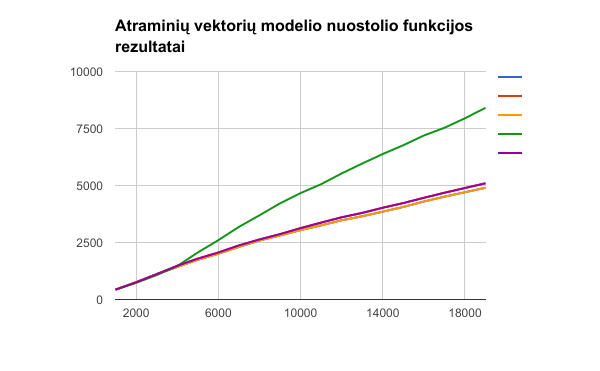
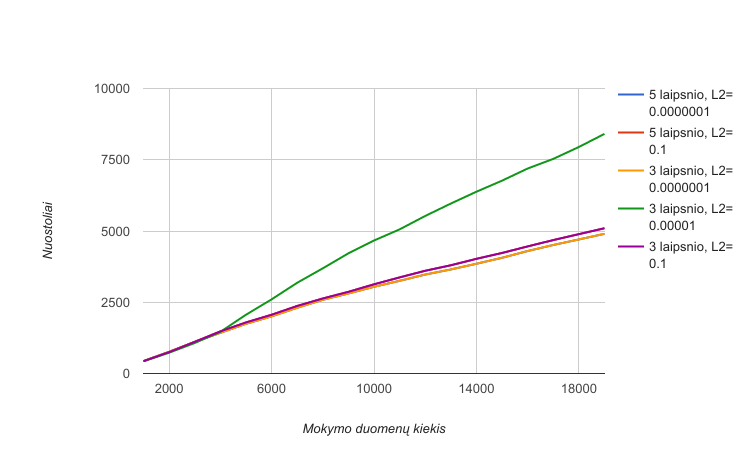
up to 12p

diff --git a/docs/apzvalga/comparison.tex b/docs/apzvalga/comparison.tex
@@ -1,19 +1,19 @@
 Straipsnyje lyginami įvairūs metodai skirti svetainių klasifikavimui į kenksmingas ir nekenksmingas. Formuluojama problema yra svetainių klasifikavimas į dvi grupes, naudojant metodus \cite{comp}
 \begin{enumerate}
- \item K-Artimiausų kaimynų (K-Nearest neighbours)
- \item Atraminių vektorių klasifikatorius (Support Vector Machine)
- \item Paprastasis Bayes klasifikatorius (Naive Bayes)
- \item K-Vidurkių (K-Means)
- \item Affinity propagation metodas
+ \item K-Artimiausų kaimynų (K-Nearest neighbours);
+ \item Atraminių vektorių klasifikatorius (Support Vector Machine);
+ \item Paprastasis Bayes klasifikatorius (Naive Bayes);
+ \item K-Vidurkių (K-Means);
+ \item Affinity propagation metodas.
 \end{enumerate}
 
-Staripsnyje naudojami ir prižiūrimi ir neprižiūrimi metodai. Jų rezultatas yra lyginamas siekiant aptikti geriausiai tinkantį parinktai problemai spręsti \cite{comp}.
+Staripsnyje naudojami ir metodai mokomi su mokytoju ir be. Jų rezultatas yra lyginamas siekiant aptikti geriausiai tinkantį parinktai problemai spręsti \cite{comp}.
 
 K-Artimiausų kaimynų (K-Nearest neighbours) metodas yra paremtas trimis elementais \cite{Wu2008}:
 \begin{enumerate}
-    \item Pavyzdinis duomenų rinkinys (Mokymo duomenų rinkinys)
-    \item Elementų atstumo matas
-    \item Analizuojamų kaimynų kiekis $k$
+    \item Pavyzdinis duomenų rinkinys (Mokymo duomenų rinkinys);
+    \item Elementų atstumo matas;
+    \item Analizuojamų kaimynų kiekis $k$.
 \end{enumerate}
 Elemento klasifikacija vyksta balsavimo principu - išrenkama $k$ elementų, kurie yra artimiausi pagal parinktą artumo metriką, dominuojanti klasė išrinktame rinkinyje priskiriama klasifikuojamam elementui.
 
@@ -100,7 +100,7 @@ Duomenų rinkinys surinktas iš dviejų pagrindinių šaltinių, Alexa katalogo,
 
 Modeliai apmokyti naudojant 70\% pradinių, sužymėtų duomenų apmokymui bei 30\% testavimui \ktufigref{images/validation.png}. Duomenų rinkinys atsitiktinai skaidomas į dvi dalis, mokymo ir validacijos. Mokymo duomenys naudojami modelio apmokymui, o validacijos duomenys naudojami įvertinti modelį. Taip yra išvengiama modelio persimokymo, galima teisingai suderinti modelio hiperparametrus. Kenksmingų ir nekenksmingų svetainių santykis išlaikytas vienodas testavimo ir mokymo imtyse.
 
-\begin{ktutable}{webtrees_rezultatas}{Prižiūrimų modelių rezultatai}
+\begin{ktutable}{webtrees_rezultatas}{Strapsnyje pateikiami modelių rezultatai}
     \begin{tabular}{l c c c c }
      \hline
        \diagbox{Metrika}{Modelis} & KNN & LS & RS & NB \\ \hline

diff --git a/docs/apzvalga/webcop.tex b/docs/apzvalga/webcop.tex
@@ -12,13 +12,13 @@ Straipsnyje aprašoma žalingos programinės įrangos plitimo problema. Vienas i
 
 Straipsnyje identifikuotą kenkėjiškos programinės įrangos plitimo problemos sprendimui siūloma WebCop sistema. Tai yra sistema, atpažįstanti kenkėjiškas ir joms gretimas svetaines. Pavyzdžiui jei turima struktūra atitinkanti \ktufigref{images/kenksmingos_A_B.png} pav. tinklapius. Šiuo atveju tinklapiai A ir B nuorodas turi tik į kenksmingą programinę įrangą, dėl to galima laikyti, kad vartotojas negaus jokios naudos iš jų, tik bus skatinamas įsidiegti kenksmingą programinę įrangą. Taip pat, keliaujant interneto grafu nuo apačios, pradedant kenksminga programine įranga galima aptikit ją platinančias svetaines, ir jas taip pat pažymėti kaip kenksmingas.
 
-\ktufigure{images/kenksmingos_A_B.png}{10 cm}{Pavyzdinė kenksmingos programinės įrangos platinimo svetainės struktūra}
+\ktufigure{images/kenksmingos_A_B.png}{10 cm}{Kenksmingos programinės įrangos platinimo svetainės struktūros pavyzdys}
 
 WebCop sistemą WebCop modulis bei dvi duomenų bazės. Viena duomenų bazėje saugomi interneto svetainių tarpusavio ryšių informacija, tai yra interneto svetainių grafas. Antra duomenų bazė laiko informaciją apie identifikuotas kenkėjiškas programas bei jų šaltinius internete. Ši sistema veikia keliais etapais:
     \begin{enumerate}[label=\arabic*.]
-        \item Nuorodų į platinimo svetaines aptikimas
-        \item Žalingų kaimynysčių aptikimas
-        \item Naujos, potencialiai žalingos, programinės įrangos aptikimas
+        \item nuorodų į platinimo svetaines aptikimas;
+        \item žalingų kaimynysčių aptikimas;
+        \item naujos, potencialiai žalingos, programinės įrangos aptikimas.
     \end{enumerate}
 
 Pirmas žingsnis, platinimo svetainių atpažinimas vykdomas jungiant identifikuotų kenkėjų duomenų bazės duomenis su interneto grafo viršūnėmis. Sekančiame žingsnyje išrenkamos svetainės gretimos platinimo svetainėms. Tai yra vienos nuorodos atstumu nuo pavojingų svetainių esančios svetainės. Šie interneto puslapiai yra laikomi žalingos programinės įrangos katalogais. Naudotojų prieiga prie šių puslapių turi būti apribota, siekiant juos apsaugoti. Svetainės esančios dviejų nuorodų atstumu ir talpinančios nežinomas taikomąsias programas identifikuojamos kaip potencialiai pavojingos, laikoma kad tai nauja, neidentifikuota kenkėjiška programinė įranga.

diff --git a/docs/apzvalga/intro.tex b/docs/apzvalga/intro.tex
@@ -1,6 +1,6 @@
 \ktusection{Kenksmingi tinklalapiai}
 
-Internetas yra vienas iš naujų reiškinių atsiradusių pasaulyje. Jis gali būti nagrinėjamas įvairiomis perspektyvomis. Jis gali atlikti informacijos šaltinio paskirtį, leisti praleisti laisvalaikį socialiniuose tinkluose, apsipirkinėti įvairiose parduotuvėse neišeinant iš namų. \ktufigure{images/internetas.png}{10 cm}{Interneto svetainių ir tinklapių struktūra} Tačiau žvelgiant iš techninės pusės, internetas yra daugybė jame pasiekiamų svetainių. Svetaines sudaro vienas ar daugiau puslapių, dar vadinamų tinklalapiais \ktufigref{images/internetas.png}. Šie tinklalapiai talpina tam tikrą turinį bei nuorodas į kitus tinklalapius, taip suformuojant tinklą -- kryptingą grafą kurį sudaro tinklalapiai bei naudotojams naviguoti skirtos nuorodos vedančios į kitus tinklalapius.
+Internetas gali būti nagrinėjamas įvairiomis perspektyvomis. Jis gali atlikti informacijos šaltinio paskirtį, leisti praleisti laisvalaikį socialiniuose tinkluose, apsipirkinėti įvairiose parduotuvėse neišeinant iš namų. \ktufigure{images/internetas.png}{10 cm}{Interneto svetainių ir tinklapių struktūra} Tačiau žvelgiant iš techninės pusės, internetas yra daugybė jame pasiekiamų svetainių. Svetaines sudaro vienas ar daugiau puslapių, dar vadinamų tinklalapiais \ktufigref{images/internetas.png}. Šie tinklalapiai talpina tam tikrą turinį bei nuorodas į kitus tinklalapius, taip suformuojant tinklą -- orientuotą grafą kurį sudaro tinklalapiai bei naudotojams naviguoti skirtos nuorodos vedančios į kitus tinklalapius.
 
 Svetainėms kurti ir talpinti yra reikalingi žmogiškieji resursai turinio sukūrimui, programinės įrangos paruošimui. Taip pat ir infrastruktūra jų talpinimui. Tai sudaro jų talpinimo kaštus, kuriuos padengia svetainė turi tiesiogiai ar netiesiogiai padengti, nesvarbu ar tai yra e-parduotuvė ar įmonę reprezentuojantis puslapis skirtas pritraukti klientus. Šie pajamų generavimo metodai yra paremti naudos suteikimu. Naudojami metodai gali būti tiesioginiai - apmokestinami parduodami produktai ar prieiga prie turinio, ar reklama paremtas monetizacijos modelis -- tinklalapiuose talpinamos nuorodos į kitas svetaines, siūlomi produktai. Šie metodai yra naudingi vartotojams, jie gauna informaciją, sužino apie naujus produktus, savo noru perka prekes.
 

diff --git a/docs/paper.tex b/docs/paper.tex
@@ -75,7 +75,7 @@ tinklalapius.
 Pirmoje darbo dalyje yra pateikiama klasifikavimo metodų bei kenksmingų tinklalapių tyrinėjimo literatūros apžvalga.
 Antroje dalyje pateikiama metodika kenksmingų ir nekenksmingų tinklalapių klasifikavimui, suformuojant mašininio
 mokymo modelius. Trečiojoje dalyje yra aprašomas ir apmokomas modelis, pateikiama programinė įranga šio modelio
-praktiniam panaudojimui. Taip pat trečioje dalyje kritiškai įvertinamas praktinis įrankio panaudojimas.
+praktiniam panaudojimui. Kritiškai įvertinamas praktinis įrankio panaudojimas. Apžvelgiamos geros
 
 \newpage
 
@@ -108,10 +108,10 @@ praktiniam panaudojimui. Taip pat trečioje dalyje kritiškai įvertinamas prakt
 
 \begin{enumerate}[label=\arabic*.]
 \item Apžvelgus literatūrą parinkti klasifikavimo modeliai ir pasiūlyta naudoti PageRank
- įverčius topologinei svetainių grafo informacijai panaudoti savybių vektoriaus formavime
-\item Sukurta metodika kenksmingų tinklalapių klasifikavimui
+ įverčius topologinei svetainių grafo informacijai panaudoti savybių vektoriaus formavime;
+\item Sukurta metodika kenksmingų tinklalapių klasifikavimui;
 \item Įgyvendinta pasiūlyta metodologija sukuriant mašininio mokymo modelius bei sukurtas
- programinis įrankis praktiniam modelio panaudojimui
+ programinis įrankis praktiniam modelio panaudojimui;
 \item Sukurtas įrankis naudotas su realiu duomenų rinkiniu, įvertinti įrankio trūkumai:
 lankstumo bei aiškumo trūkumas klasifikuojant tam tikrus populiarius tinklalapius ir privalumai.
 \end{enumerate}

diff --git a/docs/metodas/input.tex b/docs/metodas/input.tex
@@ -52,7 +52,7 @@ Išskiriamos sąvybės iš tinklalapio adreso yra:
 Žodžiai adrese yra išskiriami kaip dviejų reikšmių sąvybės, $0$ jei žodis neegzistuoja adrese, $1$ jei žodis yra adrese. Laikoma, kad žodžius skiria specialieji simboliai.
 
 Pagerank įverčiai gaunami iš orientuoto svetainių grafo $G = (V, E)$, kur $V$ yra šio grafo viršūnės o $E$ lankai. Grafo formavimas iš interneto svetainių yra pavaizduotas \ktufigref{images/hostgraph.png} paveiksle.
-\ktufigure{images/hostgraph.png}{15 cm}{Svetainių grafo formavimas iš svetainių}
+\ktufigure{images/hostgraph.png}{15 cm}{Svetainių grafo formavimas}
 
 Grafo viršūnės $V$ yra svetainės, o lankai atitinka ryšius tarp svetainių. Tai yra nuorodos tarp svetainių aptinkamos svetainių tinklalapiuose. Šie lankai turi kryptį. Jei svetainės $v_a$ tinklalapyje yra nuoroda į svetainės $v_b$ tinklalapį laikoma, kad egzistuoja lankas $e_{ab}$ iš viršūnės $v_a$ į viršūnę $v_b$. Visų lankų svoris yra vienodas, tai yra jei keli svetainės $v_a$ tinklalapiai turi nuorodas į svetainės $v_b$ tinklalapius, vis vien laikoma kad yra tik vienas lankas $e_{ab}$. Galimi abipusiai svetainių ryšiai, tai yra jei egzistuoja lankas $e_{ab}$ lankas $e_{ba}$, kuris rodo ryšį iš viršūnės $v_b$ į viršūnę $v_a$ taip pat gali egzistuoti.
 

diff --git a/docs/apzvalga/webtrees.tex b/docs/apzvalga/webtrees.tex
@@ -35,13 +35,13 @@ Siūloma alternatyva \cite{c45} yra dirbtinių neuronų tinklai, jie gali pasiek
 
 Klasifikavimui naudojamos leksikografinės svetainių adreso sąvybės bei serverio savybės. Naudojamos svetainės serverio savybės:
 \begin{enumerate}[label=\arabic*.]
-    \item Duomenų centro vieta
-    \item Domeno savininko kontaktinė informacija
-    \item Domeno registracijos data
-    \item Domeno informacijos atnaujinimo data
-    \item Svetainės spartinančiųjų atmintinių informacijos saugojimo laikas
-    \item Domeno valstybės kodas
-    \item Ryšio su serveriu pralaidumas
+    \item Duomenų centro vieta;
+    \item Domeno savininko kontaktinė informacija;
+    \item Domeno registracijos data;
+    \item Domeno informacijos atnaujinimo data;
+    \item Svetainės spartinančiųjų atmintinių informacijos saugojimo laikas;
+    \item Domeno valstybės kodas;
+    \item Ryšio su serveriu pralaidumas.
 \end{enumerate}
 
 Naudojamos leksikografinės savybės yra formuojamos iš svetainės universalaus adreso (URL). Jis yra dalinamas į segmentus, kuriuos skiria įvairūs simboliai bei skyrybos ženklai. Šie segmentai tampa dvireikšmėmis adreso savybėmis.

diff --git a/docs/apzvalga/linchpin.tex b/docs/apzvalga/linchpin.tex
@@ -8,7 +8,7 @@ Svetainės kurias stengiamasi aptikti pasižymi tam tikromis topologinėmis savy
 
 PageRank algoritmas ranguoja interneto puslapius pagal kiekvieno puslapio svarbą. Svarba vertinama pagal nuorodų į puslapį kiekį, laikoma kad svarbesni puslapiai yra dažniau minimi kitose svetainėse. Taip pat svarbių svetainių paminėjimai yra verti daugiau nei nesvarbių svetainių. Taip imituojamas socialinio tinklo prestižo statusas \cite{Wu2008}.
 
-Vertinant svetainės PageRank įvertį internetas laikomas kryptiniu grafu $G = (V, E)$ kur $V$ yra grafo viršūnės, tai yra puslapiai, o $E$ yra kryptinės briaunos, tai yra nuorodos tarp puslapių \cite{Wu2008}. Supaprastintas PageRank įvertis yra apibrėžiamas kaip \cite{pagerank}:
+Vertinant svetainės PageRank įvertį internetas laikomas orientuotu grafu $G = (V, E)$ kur $V$ yra grafo viršūnės, tai yra puslapiai, o $E$ yra orientuotos briaunos, tai yra nuorodos tarp puslapių \cite{Wu2008}. Supaprastintas PageRank įvertis yra apibrėžiamas kaip \cite{pagerank}:
 \begin{equation}
     R(u) = c \sum_{v \in B_u} \frac{R(v)}{N_v}
 \end{equation}

diff --git a/docs/taikymas/taikymas.tex b/docs/taikymas/taikymas.tex
@@ -19,14 +19,14 @@ Aplikacija pritaikyta naudoti http protokolu, naudojama REST architektūra. Sąs
 lentelėje. Tinklalpio kurį norima klasifikuoti adresas yra pateikiamas klasifikavimo aplikacijai, grąžinamas
 rezultatas yra klasifikavimo modelio pateiktas įvertis.
 
-Klasifikavimo aplikacijos architektūra pateikiama paveiksle \ktufigref{images/architektura.png}
+Kenksmingų interneto tinklalapių identifikavimo programos architektūra pateikiama paveiksle \ktufigref{images/architektura.png}
 
-\ktufigure{images/architektura.png}{12 cm}{Klasifikavimo aplikacijos architektūra}
+\ktufigure{images/architektura.png}{12 cm}{Kenksmingų interneto tinklalapių identifikavimo programos architektūra}
 
 Klasifikavimo aplikacija susideda iš dviejų pagrindinių komponentų:
 \begin{enumerate}
-\item sąsaja
-\item branduolys
+\item sąsaja,
+\item branduolys.
 \end{enumerate}
 Sąsaja yra komponentas kurio funkcija yra pateikti branduolio suteikiamą funkcionalumą naudotojams. Šiuo atveju
 tai yra http protokolu veikianti sąsaja. Šis komponentas atsakingas už užklausos perdavimą branduolio komponentui,

diff --git a/docs/taikymas/mokymas.tex b/docs/taikymas/mokymas.tex
@@ -45,7 +45,7 @@ Modelio kokybė mokymo metu negerėja. Tai atspindi šių parametrų nuostolio f
 \ktufigref{images/svm_sux.png}. Naudojant parametrų rinkinius iš lentelės \vref{tab:initial_train}
 modelis nekonverguoja.
 
-\ktufigure{images/svm_sux.png}{14 cm}{Modelio kokybės tendencijos}
+\ktufigure{images/svm_sux.png}{14 cm}{Klasifikatoriaus nuostolių priklausomybė nuo mokymo duomenų kiekio}
 
 Modelio mokymas toliau tyrinėtas naudojant kitas branduolio funkcijas ir derinant jų parametrus.
 Modelio parametrų reguliarizacijos parametras L2 nekeistas.
@@ -110,7 +110,7 @@ atraminių vektorių klasifikatorių, kuris šiame straipsnyje buvo išskiriamas
 
 \ktusubsection{Sprendimų medžio modelio formavimas}
 
-\ktufigure{images/treeLoss.png}{12 cm}{Sprendimų medžio modelio nuostolio funkcija}
+\ktufigure{images/treeLoss.png}{12 cm}{Sprendimų medžio modelio nuostolių funkcija}
 
 Paskutinis naudojamas modelis yra sprendimų medis. Modelio naudojami parametrai pateikiami lentelėje \vref{tab:medisParams}.
 

diff --git a/docs/metodas/mokymas.tex b/docs/metodas/mokymas.tex
@@ -1,13 +1,13 @@
-\ktusection{Modelių sudarymas}
+\ktusection{Kenksmingų interneto tinklalapių identifikavimo modelio apmokymas}
 
 Supaprastinta modelio schema yra pateikiama \ktufigref{images/mokymas.png} paveiksle.
 \ktufigure{images/mokymas.png}{13 cm}{Modelio formavimo schema}
 
 Modeliams mokyti naudojamas duomenų rinkinys yra dalinamas į tris imtis:
 \begin{enumerate}
-    \item mokymo imtis (70\% viso rinkinio)
-    \item testavimo imtis (25\% viso rinkinio)
-    \item validavimo imtis (5\% viso rinkinio)
+    \item mokymo imtis (70\% viso rinkinio);
+    \item testavimo imtis (25\% viso rinkinio);
+    \item validavimo imtis (5\% viso rinkinio).
 \end{enumerate}
 Didžiausia, mokymo imtis yra naudojama modelio apmokymui. Siekiant aptikti modelių persimokymą naudojama
 testavimo imtis. Modelį apmokius yra įvertinama jo kokybė naudojant parinktas metrikas, jei įverčiai stipriai

diff --git a/docs/metodas/metodai.tex b/docs/metodas/metodai.tex
@@ -1,12 +1,12 @@
-\ktusection{Klasifikavimo modeliai}
+\ktusection{Kenksmingų interneto tinklalapių identifikavimo modelis}
 
 Lyginami du klasifikavimo modeliai:
 \begin{enumerate}
-\item C4.5 sprendimų medis
-\item atraminių vektorių klasifikatorius
+\item C4.5 sprendimų medžio modelis;
+\item atraminių vektorių modelis.
 \end{enumerate}
 
-\ktusubsection{C4.5 sprendimų medžio klasifikatorius}
+\ktusubsection{C4.5 sprendimų medžio modelis}
 \input{metodas/medis.tex}
-\ktusubsection{Atraminių vektorių klasifikatorius}
+\ktusubsection{Atraminių vektorių modelis}
 \input{metodas/vektoriai.tex}

diff --git a/docs/metodas/vektoriai.tex b/docs/metodas/vektoriai.tex
@@ -27,9 +27,9 @@ Kur C yra hiperparametras naudojamas modelio formavime. Naudojant mažas $C$ ver
 
 Šio modelio naudojama branduolio funkcija gali būti laikoma vienu iš hiperparametrų kurie yra derinami modelio mokymo metu. Nagrinėjami trys branduolio tipai \cite{vw}:
 \begin{enumerate}
-    \item tiesinis
-    \item polinominis
-    \item radialinės bazės
+    \item tiesinis,
+    \item polinominis,
+    \item radialinės bazės.
 \end{enumerate}
 
 Tiesinis branduolio tipas yra naudojamas kai funkcija $K$ yra nenaudojama, tokiu atveju atraminių vektorių klasifikatorius yra apibrėžiamos kaip
